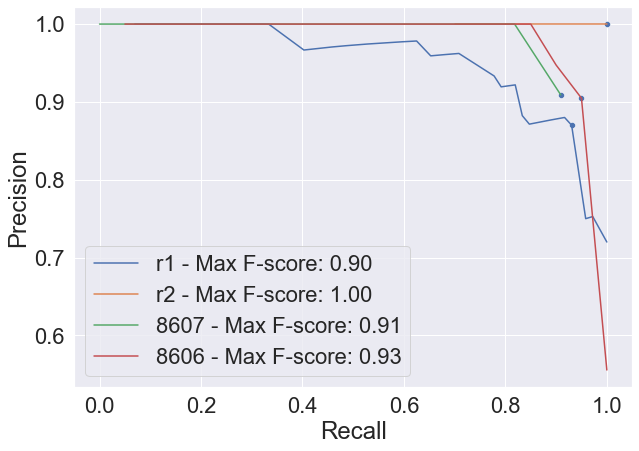
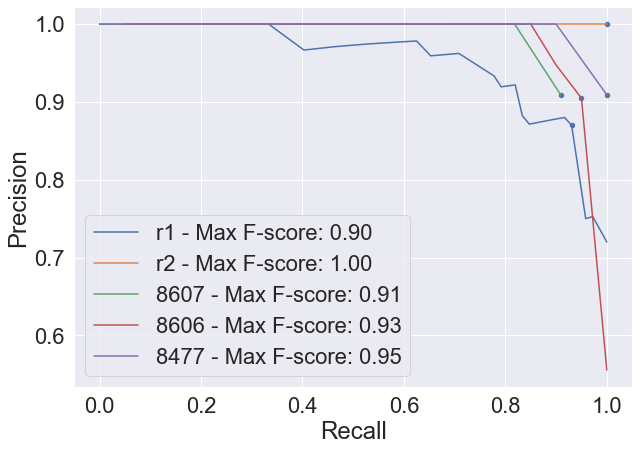
test update

diff --git a/tathey1/matt_wright/tathey1-matt_wright.html b/tathey1/matt_wright/tathey1-matt_wright.html
@@ -178,21 +178,17 @@ Sparse annotations of subvolumes  (Friedmann et. al., 2020).
 | Sample ID  | # Training Subvolumes | # Validation Subvolumes 
 |:---     |:---       |:--- |
 | 3       |  32  |  21
-| 4       |  5  |  10   
+| 4       |  10  |  10   
+| 8613       |  ?  |  10
+| 8604       |  0  |  10   
 
 
 ---
 class:inverse 
 ### Validation Performance
 
-<div class="row">
-    <div class="column2">
-    <img src="images/brain3.jpg" alt="Snow" style="width:100%">
-    </div>
-    <div class="column2">
-    <img src="images/brain4.jpg" alt="Forest" style="width:100%">
-    </div>
-</div>
+
+<img src="images/perform_allaxon.png" STYLE="width:100%;" class="center"/>
 
 ---
 class:inverse 
